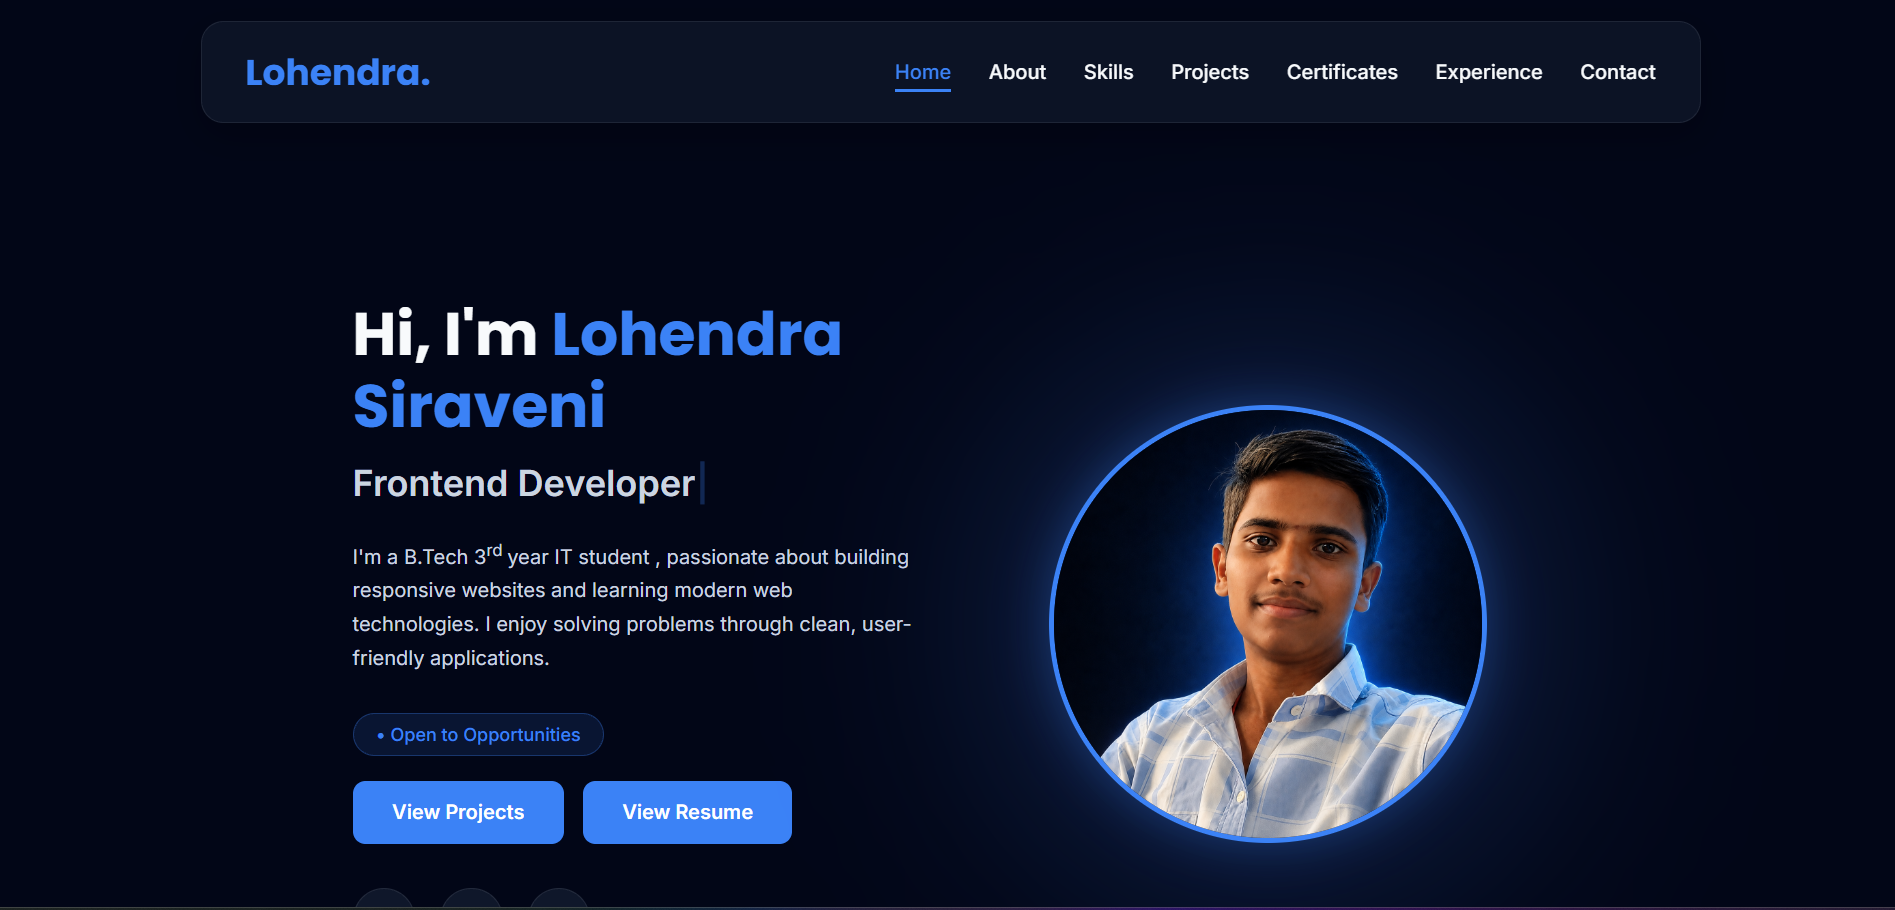
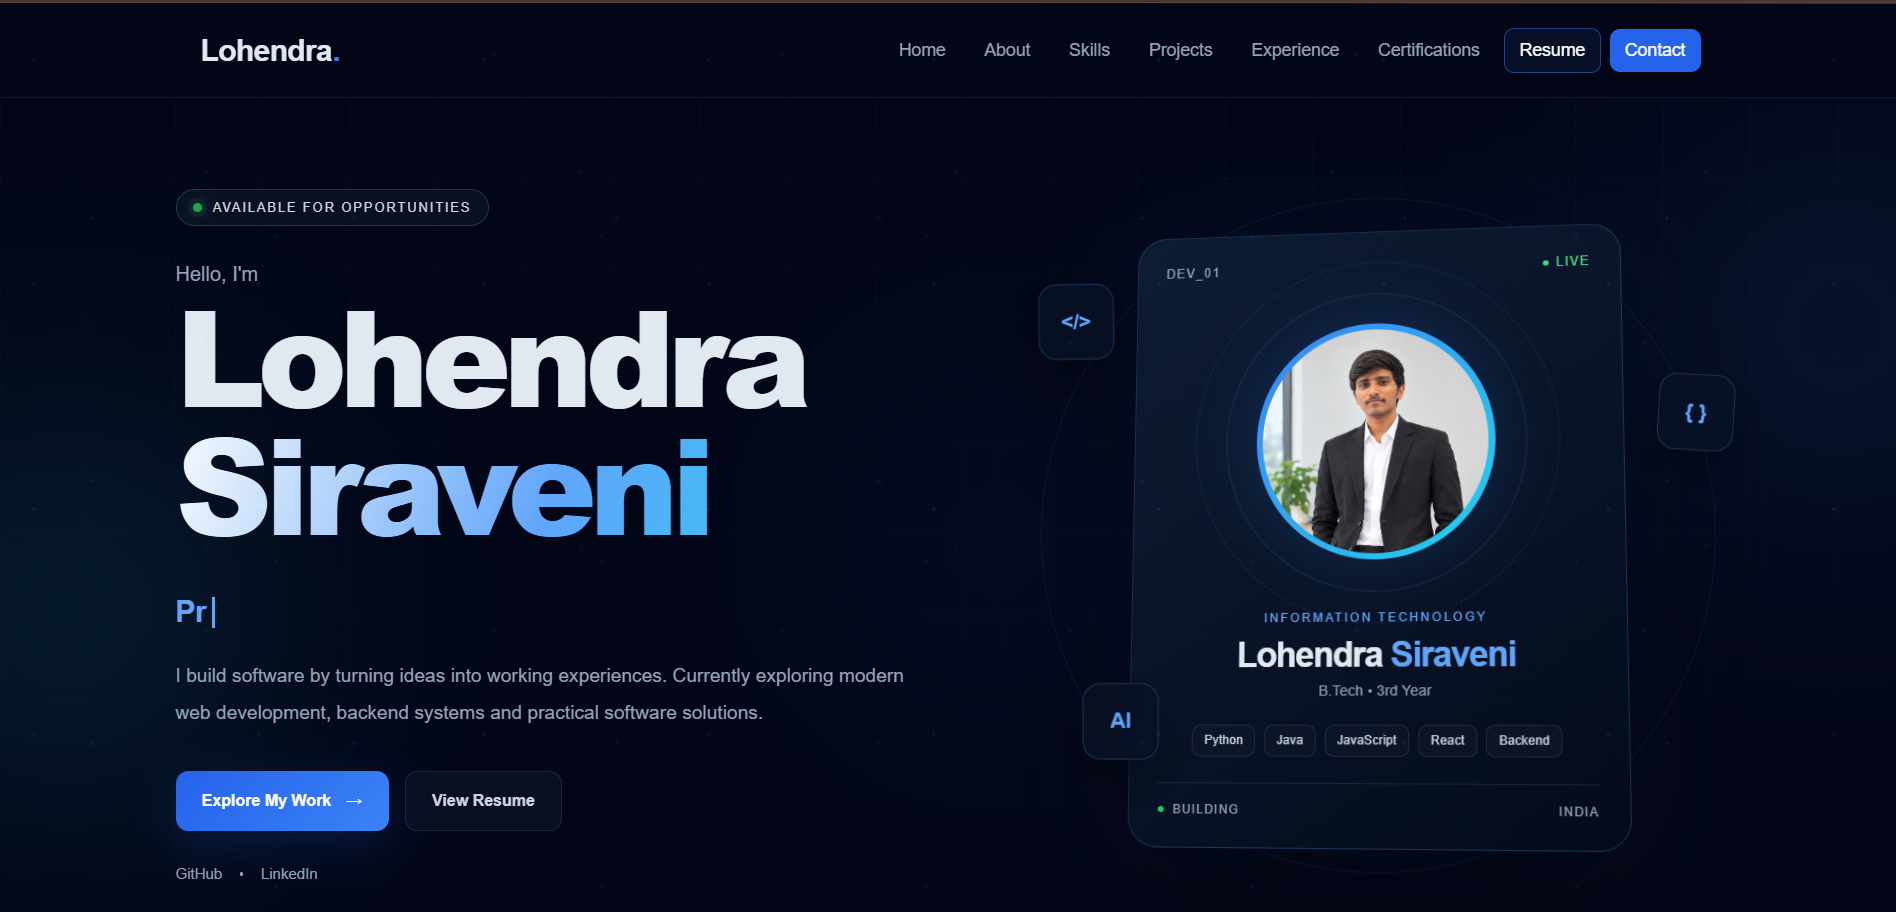
Update portfolio and README

diff --git a/README.md b/README.md
@@ -1,0 +1,64 @@
+# Lohendra Siraveni | Personal Portfolio
+
+Welcome to my personal portfolio website. This portfolio showcases my technical skills, projects, certifications, learning journey, and professional interests.
+
+## Live Website
+
+**[Visit My Portfolio](https://siraveni-lohendra.github.io/My_Portfolio/)**
+
+## About Me
+
+I am Lohendra Siraveni, a third-year B.Tech Information Technology student at Vignana Bharathi Institute of Technology. I am interested in software development, web technologies, and building practical solutions through technology.
+
+I continuously work on improving my programming skills and developing projects that solve real-world problems.
+
+## Portfolio Sections
+
+- **Home:** Introduction and professional overview.
+- **About:** My background, interests, and goals.
+- **Skills:** Programming languages and technical skills.
+- **Projects:** Projects I have developed and explored.
+- **Experience:** Internship and professional learning experience.
+- **Certifications:** Technical certifications, workshops, and achievements.
+- **Resume:** My professional resume.
+- **Contact:** Ways to connect with me.
+
+## Technical Skills
+
+- **Programming:** C, Python, Java
+- **Web Development:** HTML, CSS, JavaScript
+- **Currently Learning:** React.js and Node.js
+- **Tools:** Git, GitHub, and development tools
+
+## Projects
+
+My portfolio includes project information, technical work, and links to relevant resources where available.
+
+Explore the [Projects section](https://siraveni-lohendra.github.io/My_Portfolio/projects.html) to learn more.
+
+## Professional Profiles
+
+- [GitHub](https://github.com/siraveni-lohendra)
+- [LinkedIn](https://www.linkedin.com/in/lohendra-siraveni-139387328/)
+- [HackerRank](https://www.hackerrank.com/profile/siravenilohendra)
+
+## Technologies Used to Build This Portfolio
+
+- HTML5
+- CSS3
+- JavaScript
+- Git and GitHub Pages
+
+## Deployment
+
+This portfolio is hosted using GitHub Pages.
+
+**Website:** https://siraveni-lohendra.github.io/My_Portfolio/
+
+## Contact
+
+For professional opportunities, collaborations, or project discussions, connect with me through my [LinkedIn profile](https://www.linkedin.com/in/lohendra-siraveni-139387328/).
+
+---
+
+*Built and maintained by Lohendra Siraveni.*
